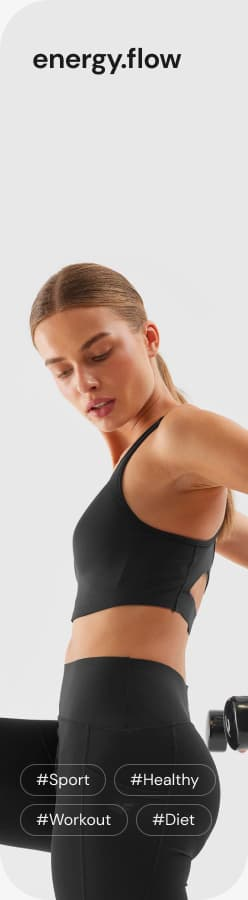
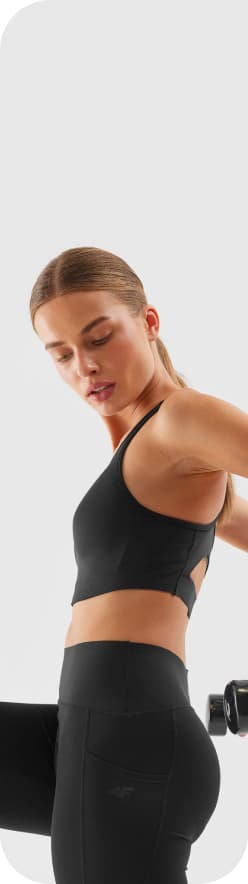
switch header img tablet

diff --git a/src/css/header.css b/src/css/header.css
@@ -119,10 +119,18 @@
       lightgray -77.155px 246.761px / 209.216% 76.867% no-repeat, #e8e8e8;
   }
   .header-tags-container {
-    display: none;
+    width: 196px;
+    gap: 8px;
+    left: 20px;
+    bottom: 64px;
   }
   .header-logo-wrap {
-    display: none;
+    top: 32px;
+    left: 32px;
+  }
+  .logo-icon {
+    width: 150px;
+    height: 28px;
   }
   .hero-heading {
     padding-top: 147px;

diff --git a/src/partials/header.html b/src/partials/header.html
@@ -24,7 +24,7 @@
 
       <ul class="header-tags-container">
         <li>
-          <svg class="tag-icon" width="61" height="22" aria-label="sport-tag-icon">
+          <svg class="tag-icon " width="61" height="22" aria-label="sport-tag-icon">
             <use href="./img/tag-icons.svg#icon-sport-tag"></use>
           </svg>
         </li>
